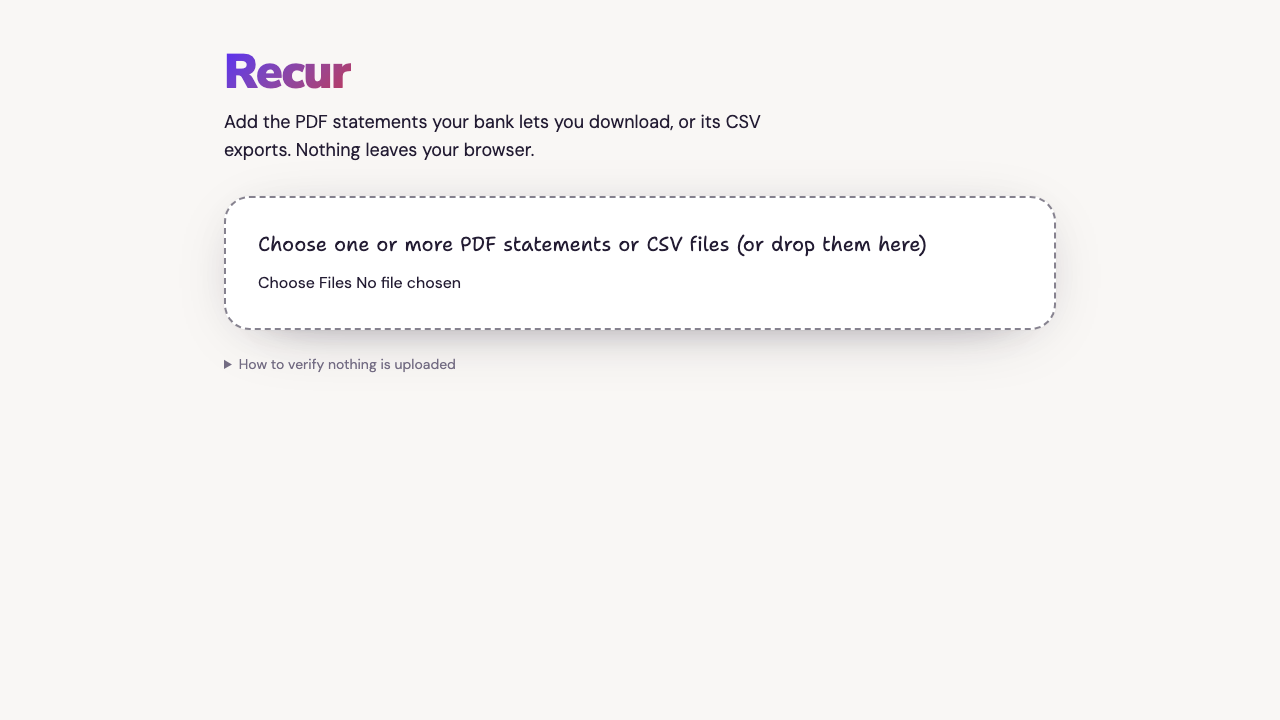
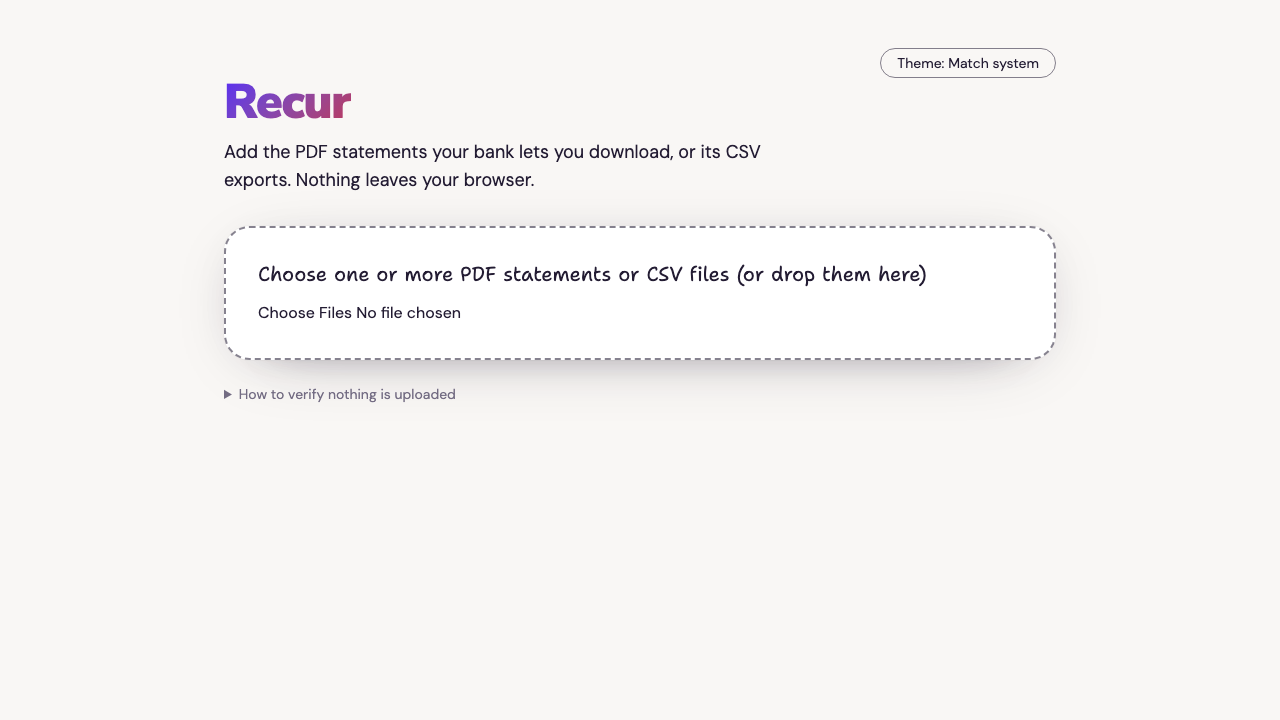
Dark mode that follows the OS, with a manual switch

diff --git a/src/index.css b/src/index.css
@@ -39,19 +39,20 @@
 }
 
 @theme {
-  --color-ink: #231c33;
-  --color-paper: #f9f7f5;
-  --color-white-sheet: #ffffff;
-  --color-quiet-gray: #736c83;
-  --color-blurple: #5522fa;
-  --color-mint-note: #b3f4e0;
-  --color-salmon-glow: #ec8580;
-  --color-salmon-wash: #fcc9c6;
-  --color-sky-wash: #b6dbff;
-  --color-canary-note: #fff5ca;
-  --color-warning-ink: #7a4100;
-  --color-stone: #edeae6;
-  --color-rose-deep: #c2304f;
+  --color-ink: light-dark(#231c33, #f1edf8);
+  --color-paper: light-dark(#f9f7f5, #15111d);
+  --color-white-sheet: light-dark(#ffffff, #1f1a2b);
+  --color-quiet-gray: light-dark(#736c83, #a9a2bb);
+  --color-blurple: light-dark(#5522fa, #b3a0ff);
+  --color-mint-note: light-dark(#b3f4e0, #0e3a2e);
+  --color-salmon-glow: light-dark(#ec8580, #ff9d97);
+  --color-salmon-wash: light-dark(#fcc9c6, #5c2a30);
+  --color-sky-wash: light-dark(#b6dbff, #1f3f66);
+  --color-canary-note: light-dark(#fff5ca, #4a3f17);
+  --color-warning-ink: light-dark(#7a4100, #ffd37a);
+  --color-stone: light-dark(#edeae6, #2e2840);
+  --color-rose-deep: light-dark(#c2304f, #ff8fa8);
+  --color-shadow: light-dark(#231c33, #000000);
 
   --font-display:
     "Nunito Sans", ui-sans-serif, system-ui, -apple-system, BlinkMacSystemFont,
@@ -67,20 +68,49 @@
   --radius-pill: 43.68px;
 
   --shadow-sheet:
-    0 0 0 1px rgba(35, 28, 51, 0.02), 0 6.4px 51.2px -25.6px rgba(
-      35,
-      28,
-      51,
-      0.2
+    0 0 0 1px color-mix(in srgb, var(--color-shadow) 2%, transparent),
+    0 6.4px 51.2px -25.6px color-mix(
+      in srgb,
+      var(--color-shadow) 20%,
+      transparent
     ),
-    0 12.8px 76.8px -32px rgba(35, 28, 51, 0.3),
-    0 12.8px 25.6px -38.4px rgba(35, 28, 51, 0.4),
-    0 25.6px 38.4px -51.2px rgba(35, 28, 51, 0.5),
-    0 38.4px 51.2px -64px rgba(35, 28, 51, 0.6);
+    0 12.8px 76.8px -32px color-mix(
+      in srgb,
+      var(--color-shadow) 30%,
+      transparent
+    ),
+    0 12.8px 25.6px -38.4px color-mix(
+      in srgb,
+      var(--color-shadow) 40%,
+      transparent
+    ),
+    0 25.6px 38.4px -51.2px color-mix(
+      in srgb,
+      var(--color-shadow) 50%,
+      transparent
+    ),
+    0 38.4px 51.2px -64px color-mix(
+      in srgb,
+      var(--color-shadow) 60%,
+      transparent
+    );
   --shadow-pill:
-    0 3.2px 6.4px -3.2px rgba(35, 28, 51, 0.2),
-    0 6.4px 12.8px -6.4px rgba(35, 28, 51, 0.4),
-    0 9.6px 19.2px -9.6px rgba(35, 28, 51, 0.6);
+    0 3.2px 6.4px -3.2px
+    color-mix(in srgb, var(--color-shadow) 20%, transparent),
+    0 6.4px 12.8px -6.4px
+    color-mix(in srgb, var(--color-shadow) 40%, transparent),
+    0 9.6px 19.2px -9.6px
+    color-mix(in srgb, var(--color-shadow) 60%, transparent);
+}
+
+:root {
+  color-scheme: light dark;
+}
+:root[data-theme="light"] {
+  color-scheme: light;
+}
+:root[data-theme="dark"] {
+  color-scheme: dark;
 }
 
 @layer base {
@@ -102,7 +132,7 @@
     outline: 2px solid var(--color-blurple);
   }
   select {
-    border: 1px solid rgba(35, 28, 51, 0.55);
+    border: 1px solid color-mix(in srgb, var(--color-ink) 55%, transparent);
     border-radius: 8px;
     background: var(--color-white-sheet);
     padding: 2px 8px;

diff --git a/e2e/dark-mode.spec.ts b/e2e/dark-mode.spec.ts
@@ -1,0 +1,83 @@
+import AxeBuilder from "@axe-core/playwright";
+import { expect, type Page, test } from "@playwright/test";
+import { makeTextPdf } from "../tools/makePdf";
+import { makeTdStatement } from "../tools/makeTdStatement";
+
+const withBalance = [
+  "Date,Description,Debit,Credit,Balance",
+  "2025-01-01,PAY,,1000.00,1000.00",
+  "2025-01-02,COFFEE,4.50,,995.50",
+].join("\n");
+const tdPdf = makeTextPdf(
+  makeTdStatement({
+    period: "SEP 01/25 - OCT 01/25",
+    opening: 100000,
+    days: [{ date: "SEP02", rows: [{ desc: "FAKE COFFEE", cents: -450 }] }],
+  }).pdf,
+);
+
+const background = (page: Page) =>
+  page.evaluate(() => getComputedStyle(document.body).backgroundColor);
+
+const scan = async (page: Page) => {
+  const { violations } = await new AxeBuilder({ page })
+    .withTags(["wcag2a", "wcag2aa", "wcag21a", "wcag21aa"])
+    .analyze();
+  expect(
+    violations.map(
+      (v) => `${v.id}: ${v.nodes.map((n) => n.target).join(" | ")}`,
+    ),
+  ).toEqual([]);
+};
+
+test("follows a dark OS and a light OS", async ({ page }) => {
+  await page.emulateMedia({ colorScheme: "dark" });
+  await page.goto("/");
+  expect(await background(page)).toBe("rgb(21, 17, 29)");
+  await page.emulateMedia({ colorScheme: "light" });
+  expect(await background(page)).toBe("rgb(249, 247, 245)");
+});
+
+test("the button cycles system, light, dark, system and overrides the OS", async ({
+  page,
+}) => {
+  await page.emulateMedia({ colorScheme: "dark" });
+  await page.goto("/");
+  const button = page.getByRole("button", { name: /^Theme:/ });
+  await expect(button).toHaveText("Theme: Match system");
+  await button.click();
+  await expect(button).toHaveText("Theme: Light");
+  expect(await background(page)).toBe("rgb(249, 247, 245)");
+  await button.click();
+  await expect(button).toHaveText("Theme: Dark");
+  expect(await background(page)).toBe("rgb(21, 17, 29)");
+  await page.emulateMedia({ colorScheme: "light" });
+  expect(await background(page)).toBe("rgb(21, 17, 29)");
+  await button.click();
+  await expect(button).toHaveText("Theme: Match system");
+  expect(await background(page)).toBe("rgb(249, 247, 245)");
+});
+
+test("dark empty and results states have no accessibility violations", async ({
+  page,
+}) => {
+  await page.emulateMedia({ colorScheme: "dark" });
+  await page.goto("/");
+  await page.screenshot({
+    path: "docs/evidence/dark-empty.png",
+    fullPage: true,
+  });
+  await scan(page);
+  await page.getByTestId("file-input").setInputFiles([
+    { name: "a.csv", mimeType: "text/csv", buffer: Buffer.from(withBalance) },
+    { name: "td.pdf", mimeType: "application/pdf", buffer: Buffer.from(tdPdf) },
+    { name: "bad.csv", mimeType: "text/csv", buffer: Buffer.from("x") },
+  ]);
+  await expect(page.getByText(/^Verified:/).first()).toBeVisible();
+  await expect(page.getByRole("alert")).toBeVisible();
+  await page.screenshot({
+    path: "docs/evidence/dark-results.png",
+    fullPage: true,
+  });
+  await scan(page);
+});

diff --git a/src/ui/theme.test.ts b/src/ui/theme.test.ts
@@ -1,0 +1,22 @@
+import { expect, test } from "vitest";
+import { applyTheme, nextTheme, type Theme } from "./theme";
+
+test("the toggle cycles system, light, dark and back", () => {
+  let t: Theme = "system";
+  const seen: Theme[] = [];
+  for (let i = 0; i < 4; i++) {
+    t = nextTheme(t);
+    seen.push(t);
+  }
+  expect(seen).toEqual(["light", "dark", "system", "light"]);
+});
+
+test("applyTheme sets the override and system clears it", () => {
+  const root = { dataset: {} as Record<string, string | undefined> };
+  applyTheme("dark", root as unknown as HTMLElement);
+  expect(root.dataset.theme).toBe("dark");
+  applyTheme("light", root as unknown as HTMLElement);
+  expect(root.dataset.theme).toBe("light");
+  applyTheme("system", root as unknown as HTMLElement);
+  expect(root.dataset.theme).toBeUndefined();
+});

diff --git a/src/ui/ThemeToggle.tsx b/src/ui/ThemeToggle.tsx
@@ -1,0 +1,26 @@
+import { useState } from "react";
+import { applyTheme, nextTheme, type Theme } from "./theme";
+
+const LABEL: Record<Theme, string> = {
+  system: "Match system",
+  light: "Light",
+  dark: "Dark",
+};
+
+/** Lasts for the visit: no browser storage is allowed in `src/` (ADR-010), so a reload follows the OS. */
+export function ThemeToggle() {
+  const [theme, setTheme] = useState<Theme>("system");
+  return (
+    <button
+      type="button"
+      className="rounded-pill border border-ink/55 px-4 py-1 text-sm"
+      onClick={() => {
+        const next = nextTheme(theme);
+        applyTheme(next, document.documentElement);
+        setTheme(next);
+      }}
+    >
+      Theme: {LABEL[theme]}
+    </button>
+  );
+}

diff --git a/src/App.tsx b/src/App.tsx
@@ -1,8 +1,12 @@
 import { Importer } from "./ui/Importer";
+import { ThemeToggle } from "./ui/ThemeToggle";
 
 export function App() {
   return (
     <main className="mx-auto max-w-4xl px-4 py-8 sm:px-8 sm:py-12">
+      <div className="flex justify-end">
+        <ThemeToggle />
+      </div>
       <h1 className="font-display text-5xl font-black tracking-tight">
         <span className="bg-linear-135 from-blurple to-rose-deep bg-clip-text text-transparent">
           Recur

diff --git a/src/ui/theme.ts b/src/ui/theme.ts
@@ -1,0 +1,12 @@
+export type Theme = "system" | "light" | "dark";
+
+const ORDER: readonly Theme[] = ["system", "light", "dark"];
+
+export const nextTheme = (t: Theme): Theme =>
+  ORDER[(ORDER.indexOf(t) + 1) % ORDER.length] as Theme;
+
+/** `system` removes the override so the OS setting decides (`color-scheme: light dark`). */
+export function applyTheme(t: Theme, root: HTMLElement): void {
+  if (t === "system") delete root.dataset.theme;
+  else root.dataset.theme = t;
+}

diff --git a/docs/PROGRESS.md b/docs/PROGRESS.md
@@ -37,7 +37,7 @@ Living document. Update it at the end of every working session. Never record sta
 1. Run `git log origin/main` and `gh pr list` to confirm what is merged. State at the end of 2026-11-25: `main` is at PR #55, no open PRs, 576 tests, the two real TD statements Verify, CIBC dropped (ADR-028). Never `--admin`; never force-push.
 2. Work in this order, one PR each, through `ship-task` (model tier in "Issues and model routing"; Sonnet implements, Opus designs and reviews parse, reconcile, pdf and CSP):
    1. ~~**#33, rest:** the NSI brand table~~ done (this PR); was: the NSI brand table (`tools/` script filtering name-suggestion-index to Canada and a few shop kinds, writes `src/core/merchant/brands.ts` with the BSD notice; README credit; measure the bundle size; RESEARCH §13 says it is not yet measured). A real alias table only with a named public source per entry.
-   2. **UI restyle PR 2:** dark mode (own PR: choose colours, measure contrast, `prefers-color-scheme` plus a manual switch if wanted). Style source: `UI/DESIGN.md`, vibe only (see the 2026-11-25 theme entry); that folder is untracked on the owner's machine until he decides to commit it, so a fresh clone lacks it: the theme tokens already in `src/index.css` and RESEARCH §14 are the source in that case. `agent-skills:frontend-ui-engineering` is required. The owner allowed taste-skill and impeccable for the 2026-11-25 restyle only; `.claude/rules/skill-selection.md` does not route them, so using them again needs his say-so recorded here and a routing-page change through a PR.
+   2. ~~**UI restyle PR 2:** dark mode~~ done (this PR); was: dark mode (own PR: choose colours, measure contrast, `prefers-color-scheme` plus a manual switch if wanted). Style source: `UI/DESIGN.md`, vibe only (see the 2026-11-25 theme entry); that folder is untracked on the owner's machine until he decides to commit it, so a fresh clone lacks it: the theme tokens already in `src/index.css` and RESEARCH §14 are the source in that case. `agent-skills:frontend-ui-engineering` is required. The owner allowed taste-skill and impeccable for the 2026-11-25 restyle only; `.claude/rules/skill-selection.md` does not route them, so using them again needs his say-so recorded here and a routing-page change through a PR.
    3. **#36, the readout screen** in this style: totals by reading (AC-17, an aggregation function in core first), label UI with file download and load (AC-18), then demo mode (AC-10), the summary download and the calendar file (AC-14).
    4. **#34, recurring detection** (AC-6, AC-7): starts only after the owner writes the subscription list.
    5. **#37, M4:** deploy, README (TD chequing only, ADR-028), launch; each needs the owner's approval.
@@ -170,6 +170,10 @@ Queued by the autonomous workflow. Claude does not attempt these.
 ## Session log
 
 Newest first. One entry per session: date, what changed, what was verified, what is next.
+
+### 2026-11-25 — Dark mode (UI restyle 2)
+
+- Theme tokens are now `light-dark()` pairs in `src/index.css` (`color-scheme: light dark`, so the OS decides); a "Theme: Match system / Light / Dark" button (`src/ui/ThemeToggle.tsx`, `src/ui/theme.ts`) sets `data-theme` on `<html>` for the visit. The choice is not saved: `localStorage` and cookies are banned in `src/` (ADR-010), so a reload follows the OS again; saving it would need a new ADR. Dark text contrast measured: ink 16:1 on paper, quiet-gray 7.6:1, blurple 8.3:1 on paper and 5.6:1 on the mint pill. Evidence: `e2e/dark-mode.spec.ts` (OS follow, button cycle and override, axe on empty and results states), screenshots `docs/evidence/dark-empty.png` and `dark-results.png`. Previous PR (#58) took three review rounds (generic-word brand forms); its CI passed first time. Skill used: `agent-skills:frontend-ui-engineering`.
 
 ### 2026-11-25 — Brand table from name-suggestion-index (#33)
 
